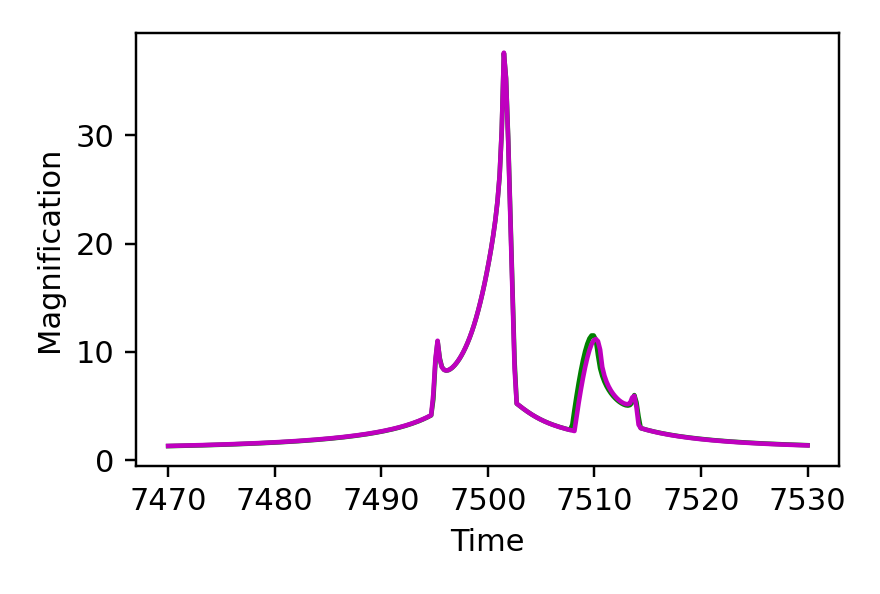
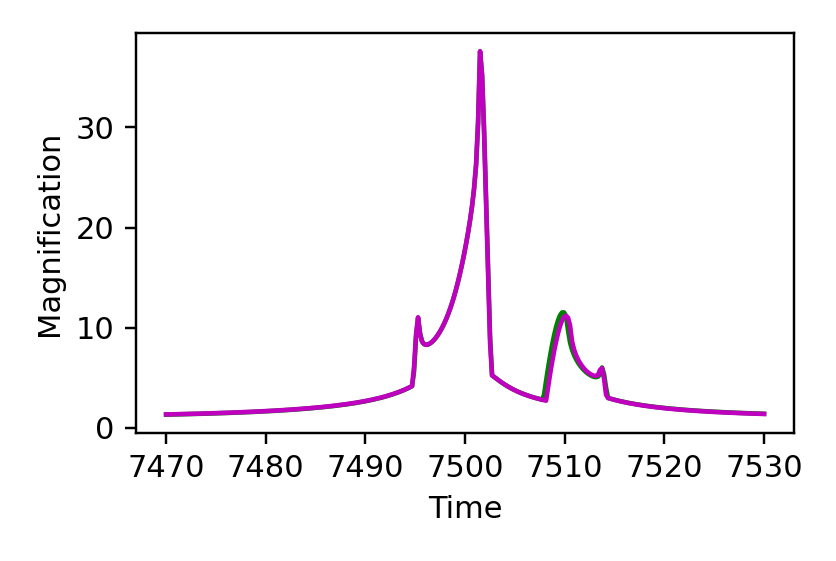
docs: rebalance light-curve and caustic figures

Changed region(s): [[0.0311, 0.0303, 0.9641, 0.9394], [0.5287, 0.0909, 0.6531, 0.7273]]

diff --git a/example/docs-python/generate_figures.py b/example/docs-python/generate_figures.py
@@ -43,13 +43,13 @@ def standard_binary():
     magnifications = curve(times, params)
     trajectory = curve.source_trajectory(times, params)
 
-    plt.figure(figsize=(4.0, 2.7))
+    plt.figure(figsize=(3.8, 2.55))
     plt.plot(times, magnifications)
     plt.xlabel("Time")
     plt.ylabel("Magnification")
     save("BinaryLens_lightcurve.png")
 
-    plt.figure(figsize=(3.5, 3.5))
+    plt.figure(figsize=(2.8, 2.8))
     plot_caustics(curve.caustics(params), color="tab:red", lw=1.1)
     plt.plot(
         -np.asarray(trajectory.x), -np.asarray(trajectory.y), color="tab:blue"
@@ -69,7 +69,7 @@ def binary_lens_images():
     critical_curves = image_plane.critical_curves()
     image_regions = image_plane.ray_shooting_images(resolution=300)
 
-    fig, (source_ax, image_ax) = plt.subplots(1, 2, figsize=(7.0, 3.3))
+    fig, (source_ax, image_ax) = plt.subplots(1, 2, figsize=(6.6, 3.1))
     for x, y in zip(caustics.x, caustics.y):
         source_ax.plot(x, y, color="tab:red", lw=1.1)
     source_ax.scatter([y1], [y2], marker="*", color="tab:blue")
@@ -99,13 +99,13 @@ def standard_triple():
     magnifications = curve(times, params)
     trajectory = curve.source_trajectory(times, params)
 
-    plt.figure(figsize=(4.0, 2.7))
+    plt.figure(figsize=(3.8, 2.55))
     plt.plot(times, magnifications)
     plt.xlabel("Time")
     plt.ylabel("Magnification")
     save("TripleLens_lightcurve.png")
 
-    plt.figure(figsize=(3.5, 3.5))
+    plt.figure(figsize=(2.8, 2.8))
     plot_caustics(curve.caustics(params), color="tab:red", lw=1.1)
     plt.plot(
         -np.asarray(trajectory.x), -np.asarray(trajectory.y), color="tab:blue"
@@ -120,12 +120,12 @@ def critical_curves_and_caustics():
     params = dict(s=0.6, q=0.1)
     curve = lcbinint.LightCurve(options=lcbinint.Options(caustic_bins=200))
 
-    plt.figure(figsize=(3.5, 3.5))
+    plt.figure(figsize=(2.8, 2.8))
     plot_caustics(curve.caustics(params), color="tab:red", lw=1.1)
     plt.axis("equal")
     save("Caustics_binary.png")
 
-    plt.figure(figsize=(3.5, 3.5))
+    plt.figure(figsize=(2.8, 2.8))
     plot_branches(curve.critical_curves(params), color="tab:blue")
     plt.axis("equal")
     save("Criticalcurves_binary.png")
@@ -152,14 +152,14 @@ def parallax():
     static_trajectory = static.source_trajectory(times, params)
     moved_trajectory = moved.source_trajectory(times, params)
 
-    plt.figure(figsize=(4.0, 2.7))
+    plt.figure(figsize=(3.8, 2.55))
     plt.plot(times, static_mag, "g")
     plt.plot(times, moved_mag, "m")
     plt.xlabel("Time")
     plt.ylabel("Magnification")
     save("BinaryLens_lightcurve_parallax.png")
 
-    plt.figure(figsize=(3.5, 3.5))
+    plt.figure(figsize=(2.8, 2.8))
     plot_caustics(static.caustics(params), color="tab:red", lw=1.1)
     plt.plot(
         -np.asarray(static_trajectory.x), -np.asarray(static_trajectory.y),
@@ -268,7 +268,7 @@ def orbital_motion():
     )
     trajectory = orbital.source_trajectory(times, params)
 
-    plt.figure(figsize=(4.0, 2.7))
+    plt.figure(figsize=(3.8, 2.55))
     plt.plot(times, static(times, params), "g")
     plt.plot(times, moved(times, params), "m")
     plt.plot(times, orbital(times, params), "y")
@@ -278,7 +278,7 @@ def orbital_motion():
 
     indices = [100, 150, 200]
     colors = [(0, 0, 1, 1), (0.4, 0, 0.6, 1), (0.6, 0, 0.4, 1)]
-    plt.figure(figsize=(3.5, 3.5))
+    plt.figure(figsize=(2.8, 2.8))
     for index, color in zip(indices, colors):
         plot_caustics(orbital.caustics(float(times[index]), params), color=color, lw=1.1)
     source_x = -np.asarray(trajectory.x)
@@ -305,7 +305,7 @@ def binary_source():
         options=options,
     )
 
-    plt.figure(figsize=(5.2, 3.2))
+    plt.figure(figsize=(4.8, 3.0))
     static_params = dict(params, w1=0.0, w2=0.0, w3=0.0)
     plt.plot(times, xallarap(times, static_params))
     plt.plot(times, xallarap(times, params), "y")
@@ -345,7 +345,7 @@ def binary_source_binary_lens():
         key: value for key, value in params.items()
         if key not in {"q_source", "q_mass", "xi_1", "xi_2", "w1", "w2", "w3"}
     }
-    plt.figure(figsize=(7.2, 4.0))
+    plt.figure(figsize=(6.6, 3.7))
     plt.plot(
         times, single_source(times, single_source_params), "y",
         label="single source + lens orbit",
@@ -380,7 +380,7 @@ def limb_darkening():
         )
         for xi in x
     ])
-    plt.figure(figsize=(4.0, 2.7))
+    plt.figure(figsize=(3.8, 2.55))
     plt.plot(x, uniform, label="uniform")
     plt.plot(x, linear, label="linear: 0.51")
     plt.plot(x, square_root, label="square root: 0.51, 0.3")
@@ -426,7 +426,7 @@ def coordinates():
         options=lcbinint.Options(coordinates="vbm", caustic_bins=600)
     )
     trajectory = curve.source_trajectory(times, params)
-    plt.figure(figsize=(3.5, 3.5))
+    plt.figure(figsize=(2.8, 2.8))
     plot_caustics(curve.caustics(params), color="tab:red", lw=1.1)
     display_x = -np.asarray(trajectory.x)
     display_y = -np.asarray(trajectory.y)
@@ -473,7 +473,7 @@ def combined_effects():
         key: value for key, value in params.items()
         if key not in {"q_source", "q_mass", "xi_1", "xi_2", "w1", "w2", "w3"}
     }
-    plt.figure(figsize=(8.2, 4.0))
+    plt.figure(figsize=(7.4, 3.8))
     plt.plot(times, static(times, single_source_params), label="static 2L1S")
     plt.plot(times, parallax_curve(times, single_source_params), label="+ parallax")
     plt.plot(times, parallax_orbit(times, single_source_params), label="+ lens orbit")
@@ -488,7 +488,7 @@ def combined_effects():
     display_y = -np.asarray(trajectory.y)
     indices = [75, 150, 225]
     colors = ["tab:blue", "tab:purple", "tab:red"]
-    plt.figure(figsize=(4.2, 4.2))
+    plt.figure(figsize=(3.3, 3.3))
     for index, color in zip(indices, colors):
         plot_caustics(
             combined.caustics(float(times[index]), params), color=color, lw=1.1

diff --git a/docs/python/LightCurves.md b/docs/python/LightCurves.md
@@ -35,7 +35,7 @@ trajectory = curve.source_trajectory(t, params)
 Plot only the light curve:
 
 ```python
-plt.figure(figsize=(4.0, 2.7))
+plt.figure(figsize=(3.8, 2.55))
 plt.plot(t, magnifications)
 plt.xlabel("Time")
 plt.ylabel("Magnification")
@@ -49,7 +49,7 @@ Calculate and plot the caustics and source trajectory separately:
 ```python
 caustics = curve.caustics(params)
 
-plt.figure(figsize=(3.5, 3.5))
+plt.figure(figsize=(2.8, 2.8))
 for x, y in zip(caustics.x, caustics.y):
     plt.plot(-np.asarray(x), -np.asarray(y), color="tab:red", lw=1.1)
 plt.plot(-np.asarray(trajectory.x), -np.asarray(trajectory.y), color="tab:blue")
@@ -93,7 +93,7 @@ trajectory = curve.source_trajectory(t, params)
 Plot only the light curve:
 
 ```python
-plt.figure(figsize=(4.0, 2.7))
+plt.figure(figsize=(3.8, 2.55))
 plt.plot(t, magnifications)
 plt.xlabel("Time")
 plt.ylabel("Magnification")
@@ -107,7 +107,7 @@ Calculate and plot the caustics and source trajectory separately:
 ```python
 caustics = curve.caustics(params)
 
-plt.figure(figsize=(3.5, 3.5))
+plt.figure(figsize=(2.8, 2.8))
 for x, y in zip(caustics.x, caustics.y):
     plt.plot(-np.asarray(x), -np.asarray(y), color="tab:red", lw=1.1)
 plt.plot(-np.asarray(trajectory.x), -np.asarray(trajectory.y), color="tab:blue")

diff --git a/docs/python/OrbitalMotion.md b/docs/python/OrbitalMotion.md
@@ -58,7 +58,7 @@ trajectory_orbital = orbital_curve.source_trajectory(t, params)
 Plot the three light curves:
 
 ```python
-plt.figure(figsize=(4.0, 2.7))
+plt.figure(figsize=(3.8, 2.55))
 plt.plot(t, magnifications, "g")
 plt.plot(t, magnifications_parallax, "m")
 plt.plot(t, magnifications_orbital, "y")
@@ -75,7 +75,7 @@ Plot caustics at the same three array indices used in the example:
 caustic_indices = [100, 150, 200]
 colors = [(0, 0, 1, 1), (0.4, 0, 0.6, 1), (0.6, 0, 0.4, 1)]
 
-plt.figure(figsize=(3.5, 3.5))
+plt.figure(figsize=(2.8, 2.8))
 for index, color in zip(caustic_indices, colors):
     caustics = orbital_curve.caustics(float(t[index]), params)
     for x, y in zip(caustics.x, caustics.y):

diff --git a/docs/python/BinarySources.md b/docs/python/BinarySources.md
@@ -65,7 +65,7 @@ magnifications_xallarap = xallarap_curve(t, params)
 Plot the two light curves in their own block:
 
 ```python
-plt.figure(figsize=(5.2, 3.2))
+plt.figure(figsize=(4.8, 3.0))
 plt.plot(t, magnifications_static)
 plt.plot(t, magnifications_xallarap, "y")
 plt.xlabel("Time")
@@ -148,7 +148,7 @@ The figure makes the extra binary-source and xallarap terms visible instead of
 leaving the combined calculation as a single printed array:
 
 ```python
-plt.figure(figsize=(7.2, 4.0))
+plt.figure(figsize=(6.6, 3.7))
 plt.plot(t, magnifications_single_source, "y", label="single source + lens orbit")
 plt.plot(t, magnifications_binary_source, "g", label="binary source + xallarap")
 plt.xlabel("Time")

diff --git a/docs/python/CriticalCurvesAndCaustics.md b/docs/python/CriticalCurvesAndCaustics.md
@@ -26,7 +26,7 @@ params = {"s": s, "q": q}
 curve = lcbinint.LightCurve(options=lcbinint.Options(caustic_bins=200))
 caustics = curve.caustics(params)
 
-fig = plt.figure(figsize=(3.5, 3.5))
+fig = plt.figure(figsize=(2.8, 2.8))
 for x, y in zip(caustics.x, caustics.y):
     plt.plot(-np.asarray(x), -np.asarray(y), color="tab:red", lw=1.1)
 plt.axis("equal")
@@ -40,7 +40,7 @@ Calculate and plot the critical curves in a new block:
 ```python
 critical_curves = curve.critical_curves(params)
 
-fig = plt.figure(figsize=(3.5, 3.5))
+fig = plt.figure(figsize=(2.8, 2.8))
 for x, y in zip(critical_curves.x, critical_curves.y):
     plt.plot(-np.asarray(x), -np.asarray(y), color="tab:blue")
 plt.axis("equal")

diff --git a/docs/python/CombinedEffects.md b/docs/python/CombinedEffects.md
@@ -98,7 +98,7 @@ combined_mag = combined(t, params)
 Plot the cumulative effect on the light curve:
 
 ```python
-plt.figure(figsize=(8.2, 4.0))
+plt.figure(figsize=(7.4, 3.8))
 plt.plot(t, static_mag, label="static 2L1S")
 plt.plot(t, parallax_mag, label="+ parallax")
 plt.plot(t, orbit_mag, label="+ lens orbit")
@@ -120,7 +120,7 @@ display_y = -np.asarray(trajectory.y)
 indices = [75, 150, 225]
 colors = ["tab:blue", "tab:purple", "tab:red"]
 
-plt.figure(figsize=(4.2, 4.2))
+plt.figure(figsize=(3.3, 3.3))
 for index, color in zip(indices, colors):
     caustics = combined.caustics(float(t[index]), params)
     for x, y in zip(caustics.x, caustics.y):

diff --git a/docs/python/Parallax.md b/docs/python/Parallax.md
@@ -50,7 +50,7 @@ trajectory_parallax = parallax_curve.source_trajectory(t, params)
 Plot the static and parallax light curves:
 
 ```python
-plt.figure(figsize=(4.0, 2.7))
+plt.figure(figsize=(3.8, 2.55))
 plt.plot(t, magnifications, "g")
 plt.plot(t, magnifications_parallax, "m")
 plt.xlabel("Time")
@@ -65,7 +65,7 @@ Plot the caustics and trajectories in a separate block:
 ```python
 caustics = static_curve.caustics(params)
 
-plt.figure(figsize=(3.5, 3.5))
+plt.figure(figsize=(2.8, 2.8))
 for x, y in zip(caustics.x, caustics.y):
     plt.plot(-np.asarray(x), -np.asarray(y), color="tab:red", lw=1.1)
 plt.plot(

diff --git a/docs/python/BinaryLenses.md b/docs/python/BinaryLenses.md
@@ -53,7 +53,7 @@ caustics = image_plane.caustics()
 critical_curves = image_plane.critical_curves()
 image_regions = image_plane.ray_shooting_images(resolution=300)
 
-fig, (source_ax, image_ax) = plt.subplots(1, 2, figsize=(7.0, 3.3))
+fig, (source_ax, image_ax) = plt.subplots(1, 2, figsize=(6.6, 3.1))
 
 for x, y in zip(caustics.x, caustics.y):
     source_ax.plot(x, y, color="tab:red", lw=1.1)

diff --git a/docs/python/Coordinates.md b/docs/python/Coordinates.md
@@ -39,7 +39,7 @@ caustics = curve.caustics(params)
 display_x = -np.asarray(trajectory.x)
 display_y = -np.asarray(trajectory.y)
 
-plt.figure(figsize=(3.5, 3.5))
+plt.figure(figsize=(2.8, 2.8))
 for x, y in zip(caustics.x, caustics.y):
     plt.plot(-np.asarray(x), -np.asarray(y), color="tab:red", lw=1.1)
 plt.plot(display_x, display_y, color="tab:blue")
